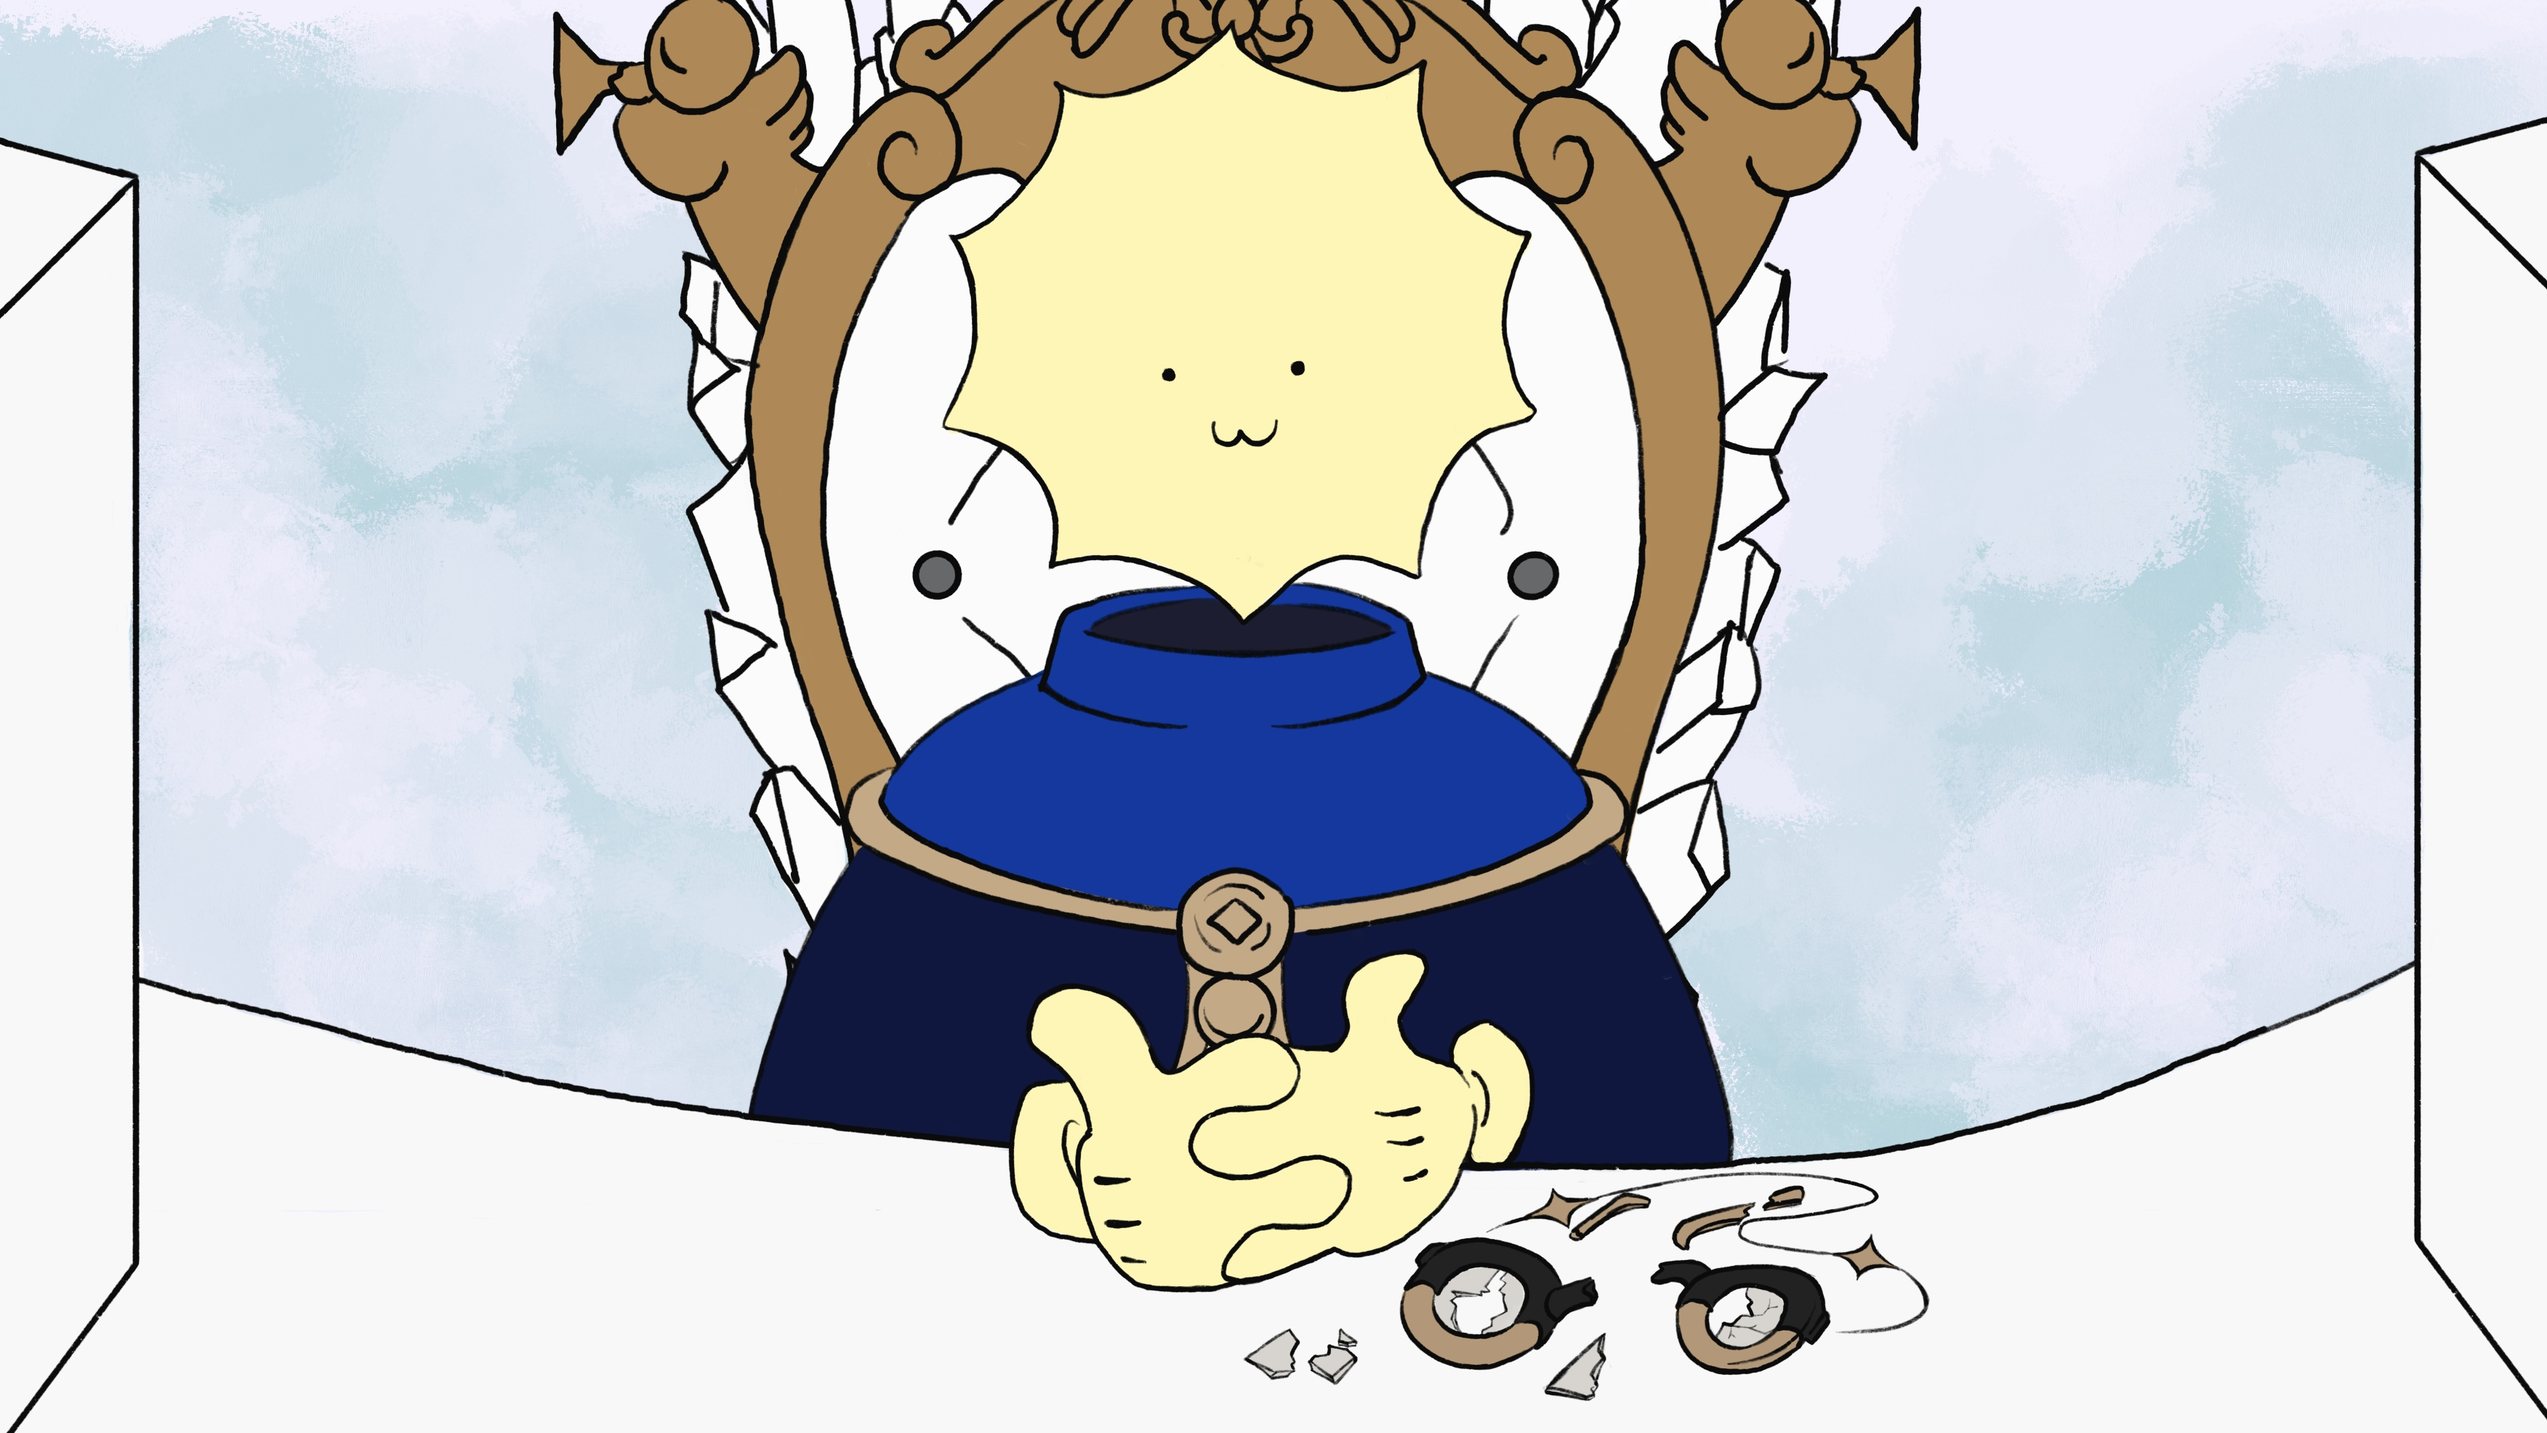
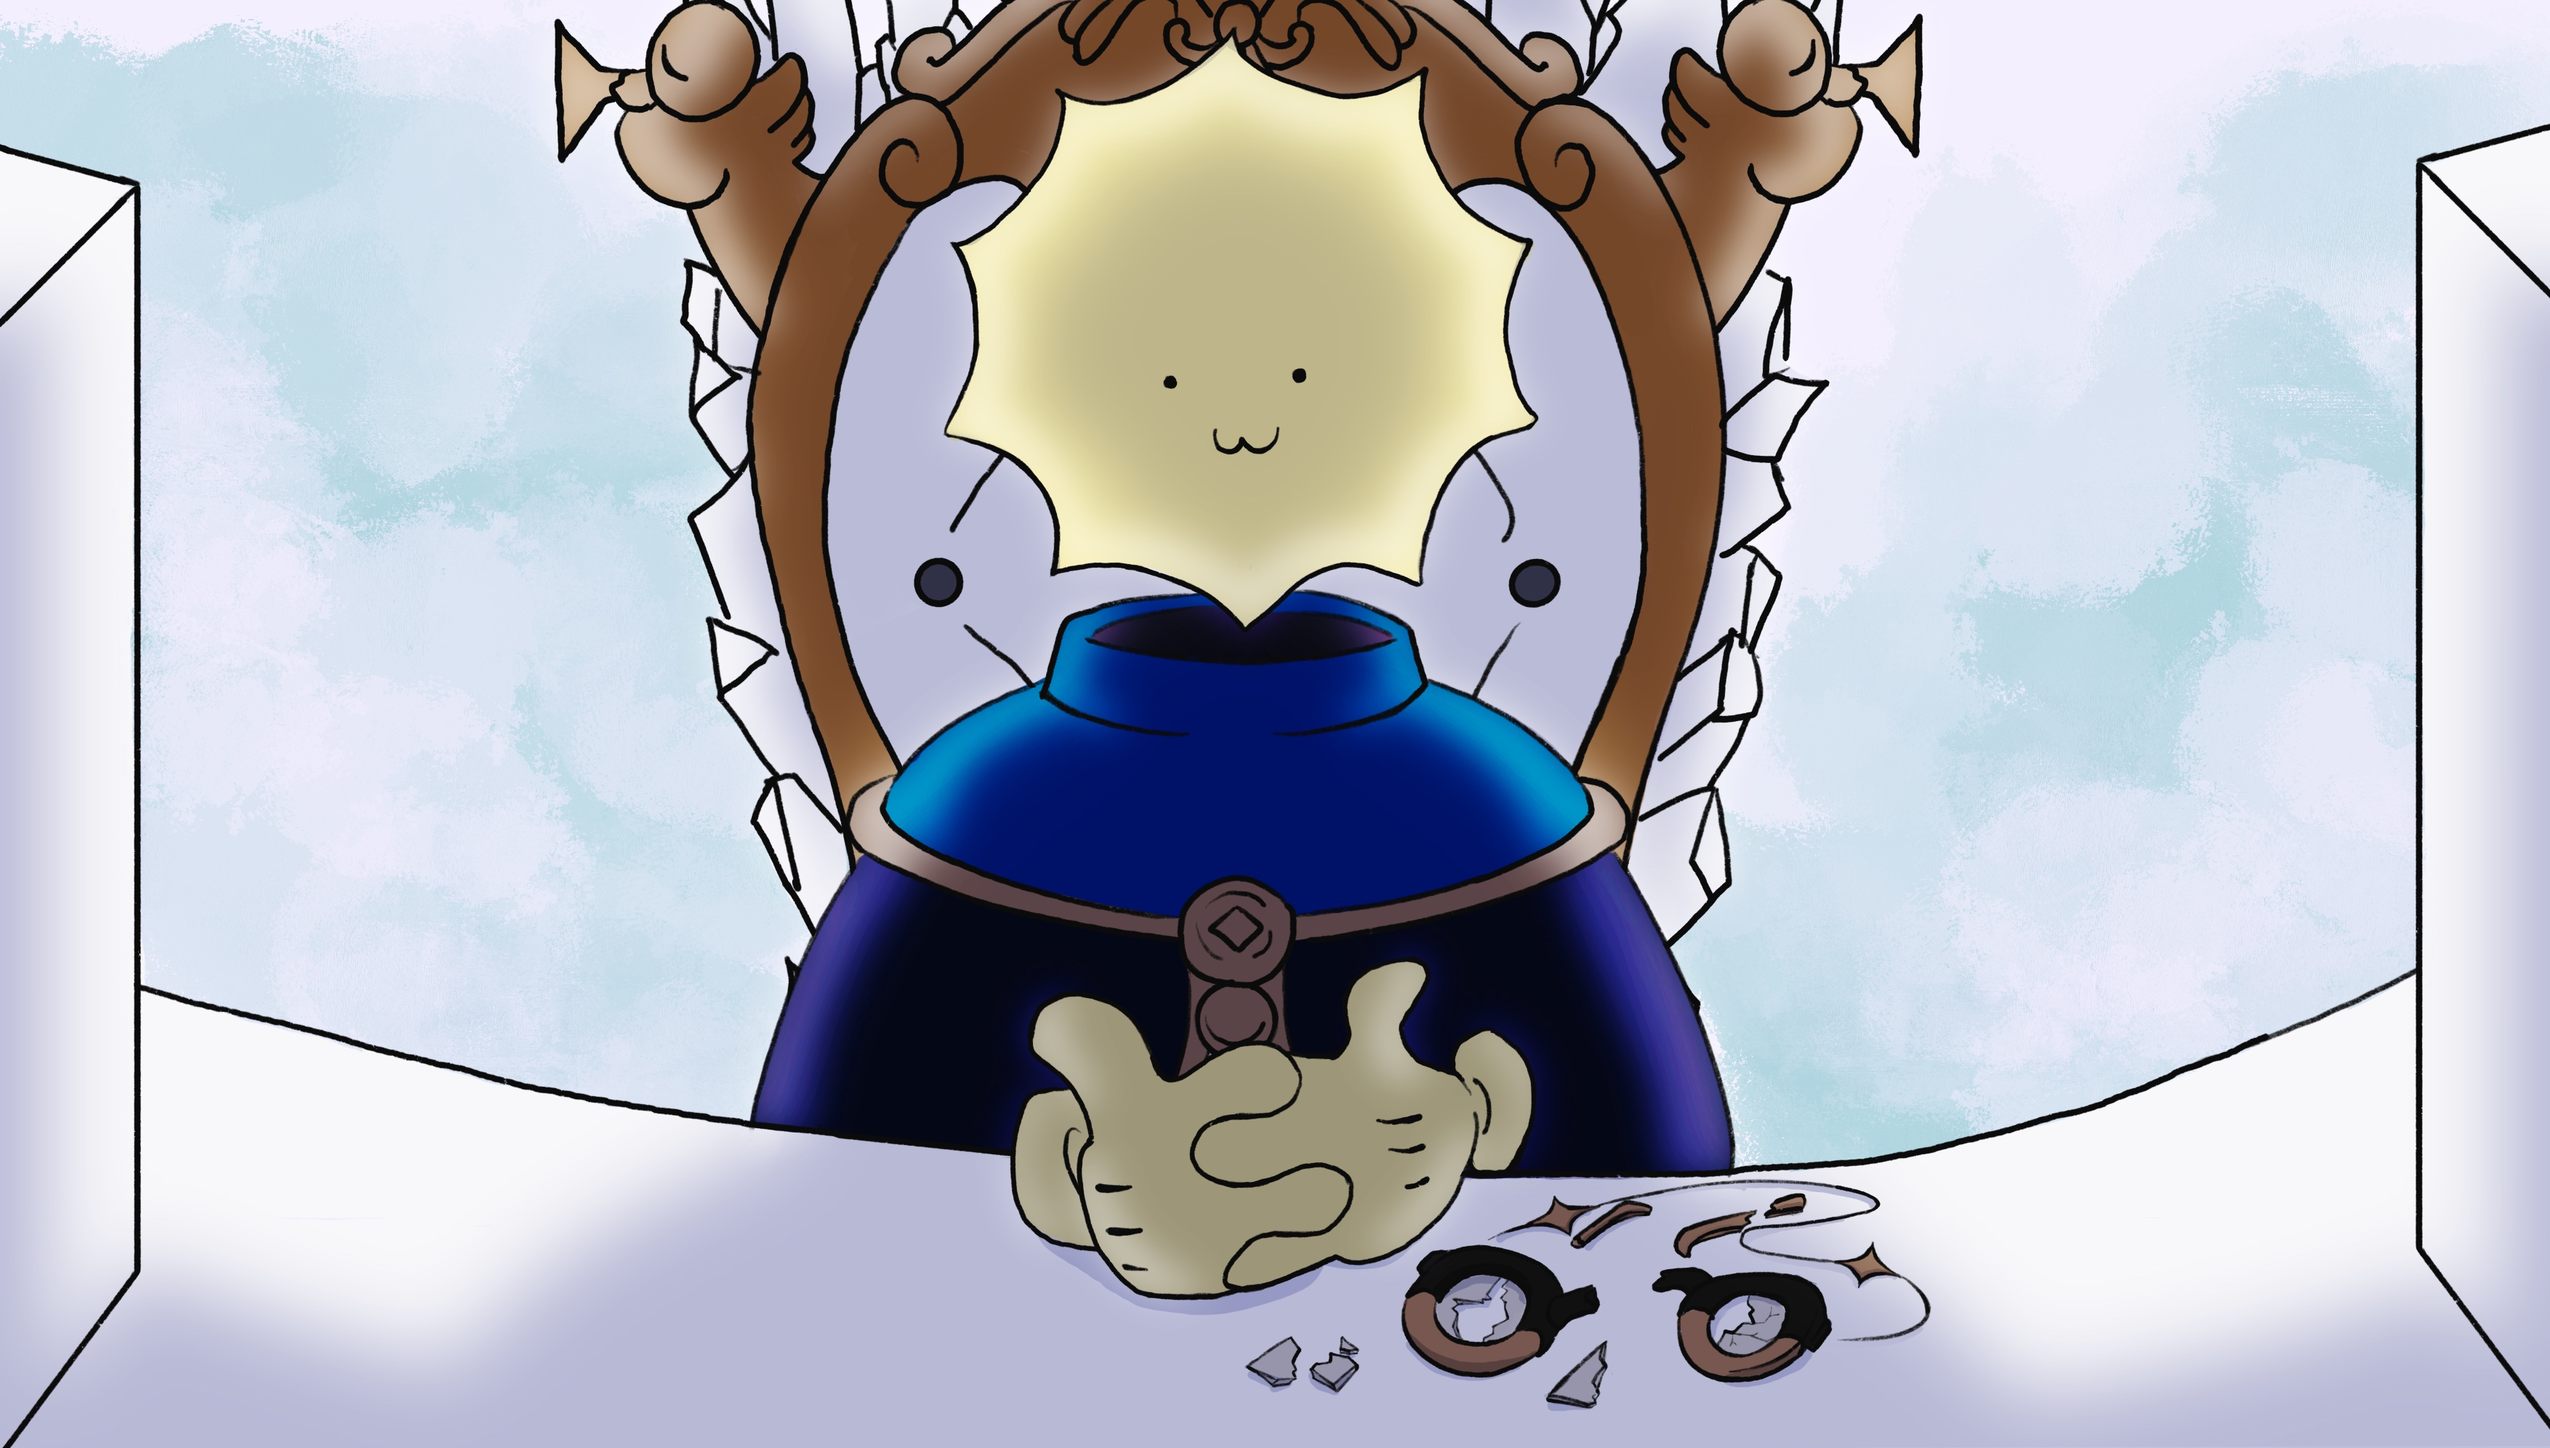
Edited images

diff --git a/index.html b/index.html
@@ -12,7 +12,7 @@
     <script src="js/portfolio.js" defer></script>
 	<link href='https://fonts.googleapis.com/css?family=Adamina' rel='stylesheet'>
 	<style>
-		body {font-family: 'Adamina';}
+		body{font-family: 'Adamina';}
 	</style>
 </head>
 <body>
@@ -426,6 +426,11 @@
       <h1>Character Design</h1>
 	  <img src="./img/SSSG_CleoneText.jpg" width="70%">
 	  <p><i>Cleone</i> - Set Sail, Slug Girl!</p>
+	  <p>3508 x 2480 pixels</p>
+	  <p>Digital Drawing</p>
+		<br>
+	  <img src="./img/DizzyCatCharacterDesign.jpg" width="70%">
+	  <p><i>Cyn</i> - DizzyCat Style</p>
 	  <p>3508 x 2480 pixels</p>
 	  <p>Digital Drawing</p>
 		<br>
